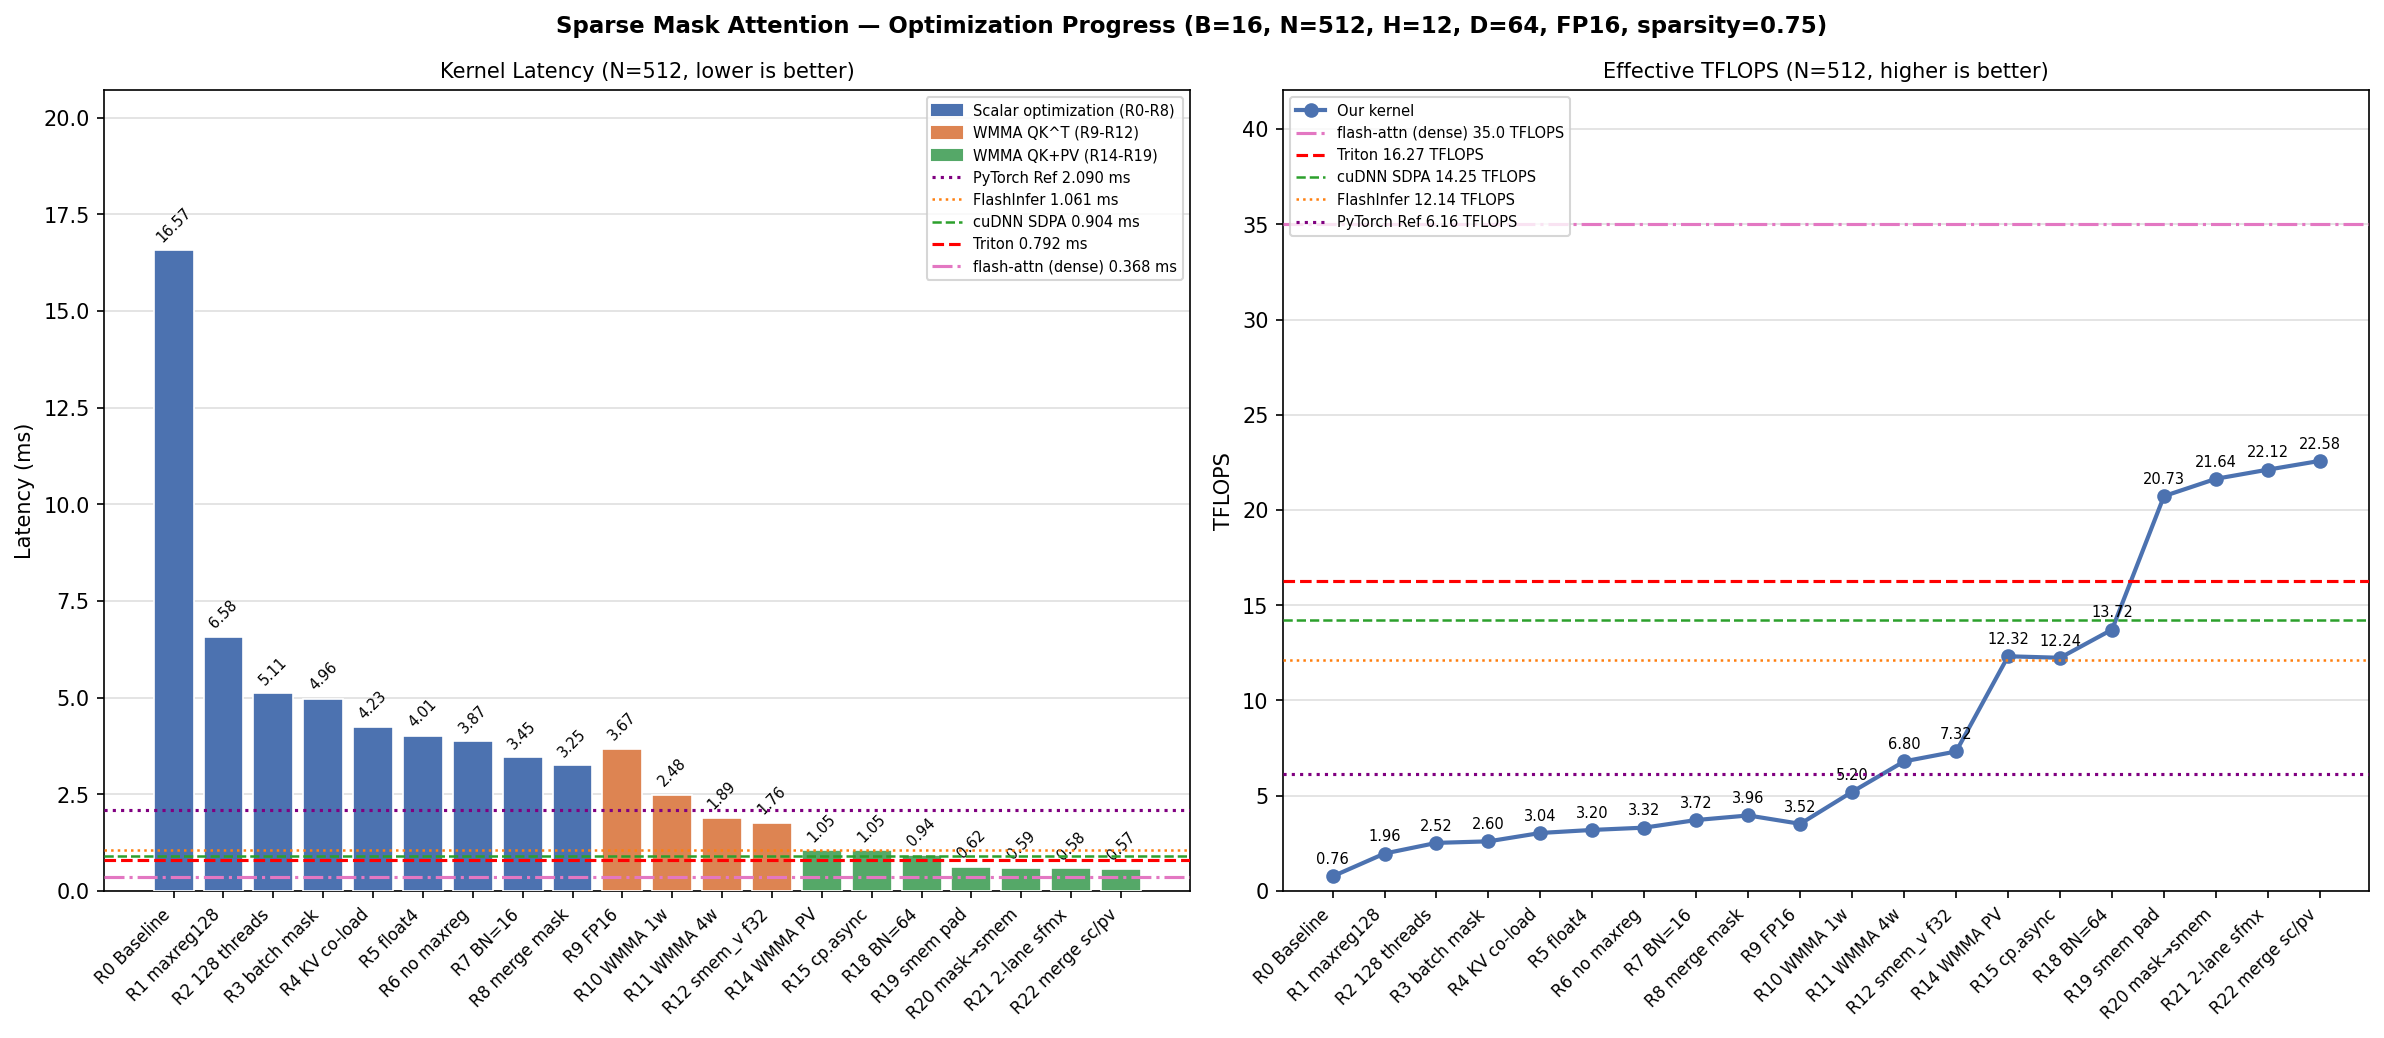
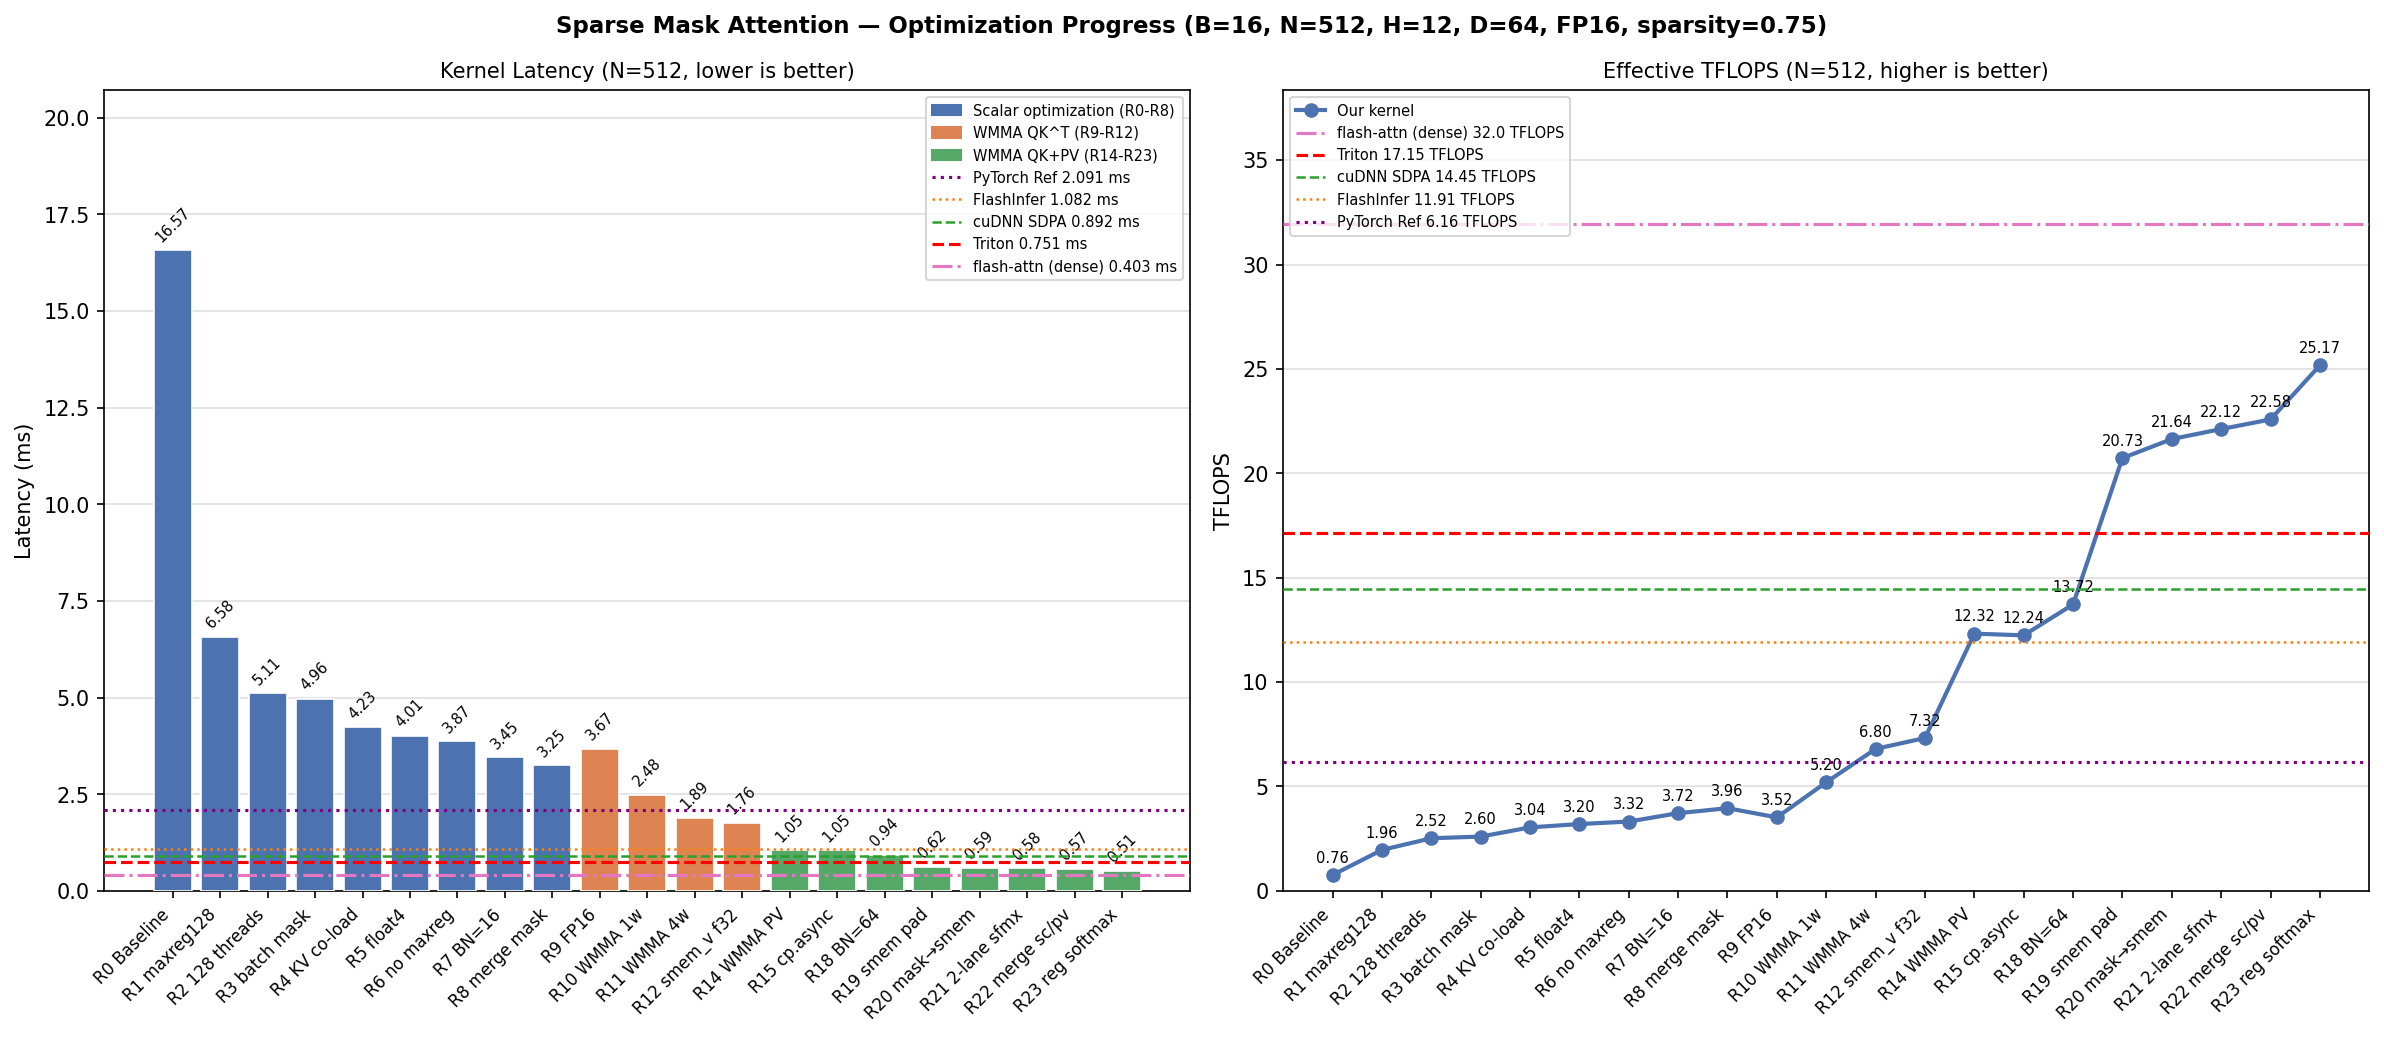
Update perf chart with Round 23 data

diff --git a/notes/gen_chart.py b/notes/gen_chart.py
@@ -27,6 +27,7 @@ rounds = [
     (20, "R20 mask→smem",    0.595, 21.64),
     (21, "R21 2-lane sfmx",  0.583, 22.12),
     (22, "R22 merge sc/pv",  0.571, 22.58),
+    (23, "R23 reg softmax",  0.512, 25.17),
 ]
 
 r_ids   = [r[0]  for r in rounds]
@@ -35,16 +36,16 @@ latency = [r[2]  for r in rounds]
 tflops  = [r[3]  for r in rounds]
 
 # Baselines (B=16, N=512, H=12, D=64, FP16, sparsity=0.75)
-TRITON_LAT   = 0.792
-TRITON_TFLOP = 16.27
-PT_REF_LAT   = 2.090
+TRITON_LAT   = 0.751
+TRITON_TFLOP = 17.15
+PT_REF_LAT   = 2.091
 PT_REF_TFLOP = 6.16
-CUDNN_LAT    = 0.904
-CUDNN_TFLOP  = 14.25
-FI_LAT       = 1.061
-FI_TFLOP     = 12.14
-FA_LAT       = 0.368
-FA_TFLOP     = 35.04
+CUDNN_LAT    = 0.892
+CUDNN_TFLOP  = 14.45
+FI_LAT       = 1.082
+FI_TFLOP     = 11.91
+FA_LAT       = 0.403
+FA_TFLOP     = 31.96
 
 fig, axes = plt.subplots(1, 2, figsize=(16, 7))
 fig.suptitle('Sparse Mask Attention — Optimization Progress (B=16, N=512, H=12, D=64, FP16, sparsity=0.75)',
@@ -89,7 +90,7 @@ ax.grid(axis='y', alpha=0.4, zorder=1)
 leg_patches = [
     mpatches.Patch(color='#4C72B0', label='Scalar optimization (R0-R8)'),
     mpatches.Patch(color='#DD8452', label='WMMA QK^T (R9-R12)'),
-    mpatches.Patch(color='#55A868', label='WMMA QK+PV (R14-R19)'),
+    mpatches.Patch(color='#55A868', label='WMMA QK+PV (R14-R23)'),
 ]
 ax.legend(handles=leg_patches + ax.get_legend_handles_labels()[0][::-1],
           fontsize=7, loc='upper right')
